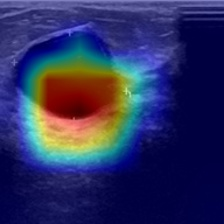
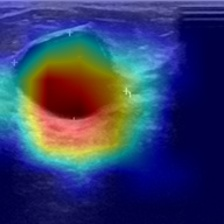
Changed GradCAM to GradCAMPlusPlus for better visualization

diff --git a/src/explainability/gradcam.py b/src/explainability/gradcam.py
@@ -6,7 +6,7 @@ from mpmath import visualization
 from torchvision import transforms
 from pathlib import Path
 
-from pytorch_grad_cam import GradCAM
+from pytorch_grad_cam import GradCAMPlusPlus
 from pytorch_grad_cam.utils.image import show_cam_on_image
 
 from src.models.model import get_efficientnet_v2
@@ -21,7 +21,7 @@ model.load_state_dict(torch.load(MODEL_DIR, map_location=device, weights_only=Tr
 model.eval()
 
 # Target layer
-target_layers = [model.features[-1]]
+target_layers = [model.features[-2]]
 
 transform = transforms.Compose([
     transforms.Resize((224, 224)),
@@ -38,7 +38,7 @@ image = Image.open(image_path).convert("RGB")
 input_tensor = transform(image).unsqueeze(0).to(device)
 
 # Grad-CAM
-cam = GradCAM(model=model, target_layers=target_layers)
+cam = GradCAMPlusPlus(model=model, target_layers=target_layers)
 
 grayscale_cam = cam(input_tensor=input_tensor)[0]
 
